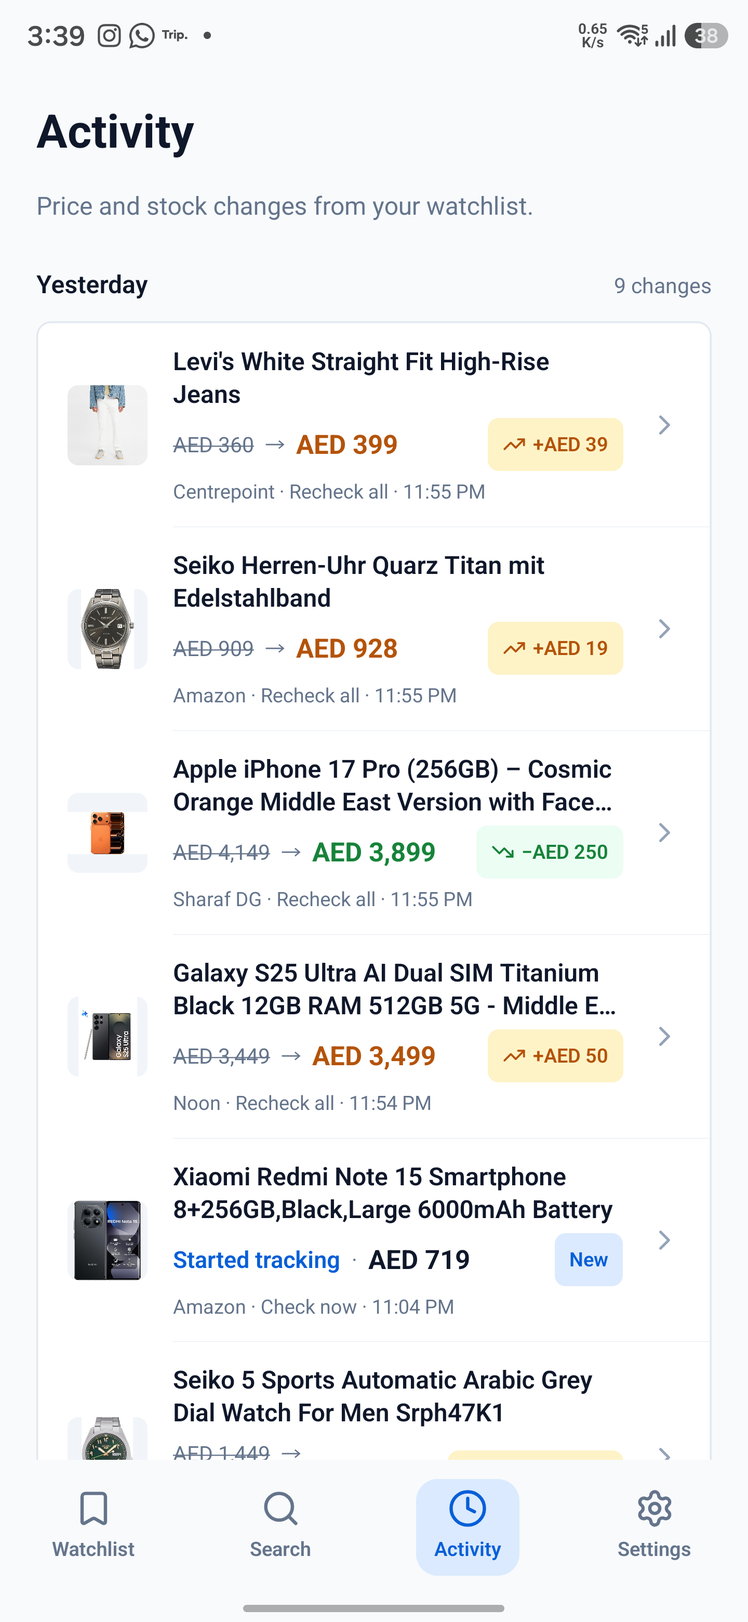
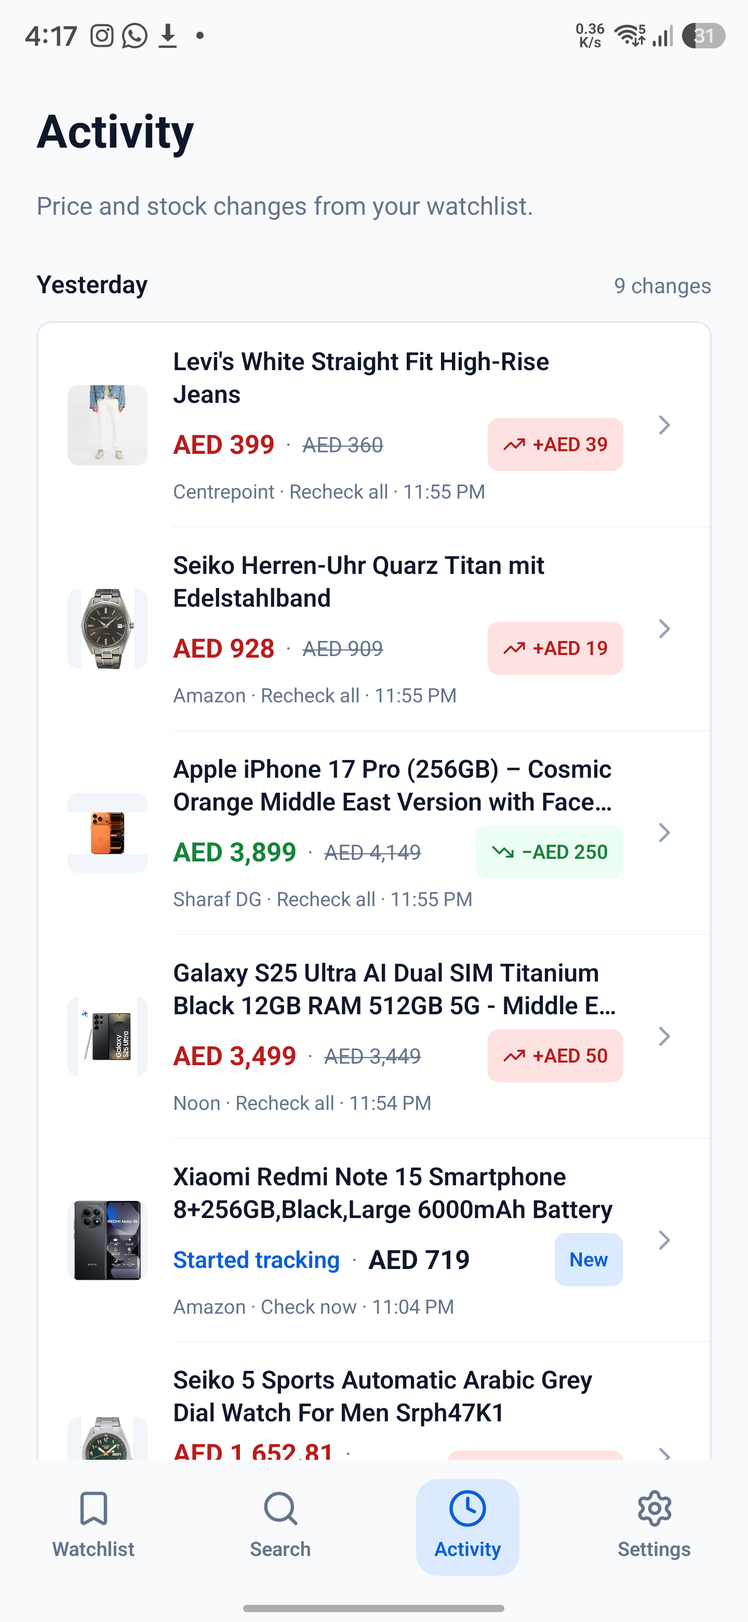
docs: update the price-rise palette and Activity evidence

diff --git a/design-qa.md b/design-qa.md
@@ -6,10 +6,10 @@ The semantic type/layout tokens and shared status primitives were installed on t
 
 - Watchlist price rises now render amber instead of red; drops stay green, so green is reserved for price movement. [Watchlist evidence](docs/assets/design-2026-11-13/watchlist-status-colors.png)
 - Product detail shows a neutral blue "Checked" status pill, and the snapshot list renders provenance ("Background", "Recheck all") as muted text instead of colored badges. [Detail evidence](docs/assets/design-2026-11-13/detail-neutral-check.png), [snapshot list](docs/assets/design-2026-11-13/detail-snapshot-provenance.png)
-- Activity renders "Back in stock" in neutral blue, price rises in amber and drops in green, with muted provenance. [Activity evidence](docs/assets/design-2026-11-13/activity-status-colors.png)
+- Activity renders "Back in stock" in neutral blue, price rises in red and drops in green, with muted provenance. [Activity evidence](docs/assets/design-2026-11-13/activity-status-colors.png)
 - Search discovery cards use a compact outline Track action instead of a solid primary button on every card, so card content leads. [Search evidence](docs/assets/design-2026-11-13/search-after-pass.png)
 - Device accessibility labels were present for the header and icon controls ("Go back", "Copy product link", "Tracking settings").
-- **Screen-pass follow-up (installed after the token pass):** product detail shows the full title, an image plus price/status block, flat equal-weight insight cards and direction-colored snapshot prices [detail](docs/assets/design-2026-11-13/detail-hierarchy.png), [snapshots](docs/assets/design-2026-11-13/detail-snapshot-directions.png); Add collapses the supported-store list behind a disclosure [Add](docs/assets/design-2026-11-13/add-supported-stores-disclosure.png); Settings collapses run diagnostics and supported stores [Settings](docs/assets/design-2026-11-13/settings-progressive-disclosure.png); tracking settings adds a per-product **Active** switch [toggle](docs/assets/design-2026-11-13/tracking-active-toggle.png); the tab stack stays mounted so Watchlist keeps its scroll position after a product round trip [state](docs/assets/design-2026-11-13/watchlist-state-preserved.png); the archived-with-no-items state is covered [archived](docs/assets/design-2026-11-13/archived-empty-state.png). Discovery listing images fall back to a neutral placeholder when missing or broken, with three focused component tests. Search listing cards now show the same green/amber direction badge as Watchlist when a previously observed price changed [badges](docs/assets/design-2026-11-13/search-price-change-badges.png).
+- **Screen-pass follow-up (installed after the token pass):** product detail shows the full title, an image plus price/status block, flat equal-weight insight cards and direction-colored snapshot prices [detail](docs/assets/design-2026-11-13/detail-hierarchy.png), [snapshots](docs/assets/design-2026-11-13/detail-snapshot-directions.png); Add collapses the supported-store list behind a disclosure [Add](docs/assets/design-2026-11-13/add-supported-stores-disclosure.png); Settings collapses run diagnostics and supported stores [Settings](docs/assets/design-2026-11-13/settings-progressive-disclosure.png); tracking settings adds a per-product **Active** switch [toggle](docs/assets/design-2026-11-13/tracking-active-toggle.png); the tab stack stays mounted so Watchlist keeps its scroll position after a product round trip [state](docs/assets/design-2026-11-13/watchlist-state-preserved.png); the archived-with-no-items state is covered [archived](docs/assets/design-2026-11-13/archived-empty-state.png). Discovery listing images fall back to a neutral placeholder when missing or broken, with three focused component tests. Search listing cards now show the same green/red direction badge as Watchlist when a previously observed price changed [badges](docs/assets/design-2026-11-13/search-price-change-badges.png).
 
 Remaining for later passes: the price-history chart keeps its own change indicator; a fuller Search hierarchy is still open, while the product-detail, Add, Settings and Activity passes are recorded below. The accessibility matrix still needs TalkBack order/heading announcement, landscape, larger scales with inputs, other devices and a loading/error/selection sweep; contrast, narrow widths and Android 16/17 edge-to-edge were checked.
 
@@ -42,11 +42,13 @@ Remaining after this pass: Search filter chips and the still-local card styles (
 The Activity tab was rebuilt as a calendar-day history rather than a list of relative-time groups:
 
 - Events are grouped by stable **local calendar day** (`Today`, `Yesterday`, then e.g. `Mon, 10 Nov`) with a per-day change count; the grouping helper is unit-tested against fixed dates. [grouping tests](src/domain/__tests__/activity.test.ts)
-- Each day is one flat `Surface` with compact rows (thumbnail, title, old → new price, explicit delta badge such as `+AED 39` or `−AED 250`, then retailer · source · time). This replaces one bordered card per event and matches the Watchlist card language. [before](docs/assets/activity-redesign/current-activity.png), [after](docs/assets/activity-redesign/activity-after.png)
+- Each day is one flat `Surface` with compact rows (thumbnail, title, new price first with the previous price struck through, explicit delta badge such as `+AED 39` or `−AED 250`, then retailer · source · time). This replaces one bordered card per event and matches the Watchlist card language. [before](docs/assets/activity-redesign/current-activity.png), [after](docs/assets/activity-redesign/activity-after.png)
 - Stock transitions keep their state text (Out of stock / Back in stock) with the last or new price; first observations read “Started tracking” with a `New` badge. Source is still muted provenance text.
 - Deleted products render a non-tappable “Product removed” row; existing products open their detail page with a descriptive accessibility label. Day headers are headings with counts.
 - Device checks on the Samsung SM-S928B: populated list, 1.3 font scale (rows reflow, meta wraps instead of truncating) and landscape (rows use the full width, badges stay right-aligned). [1.3](docs/assets/activity-redesign/activity-font-scale-1-3.png), [landscape](docs/assets/activity-redesign/activity-landscape.png)
 - Full plan and design rationale: [activity redesign](docs/activity-redesign-plan.md).
+
+**Palette follow-up (14 November 2026):** price rises switched from amber to red following the Activity review (the amber badge read as orange). `colors.red`/`redSoft` now use `#B91C1C`/`#FEE2E2` — the same red is used for negative price movement and failures, while amber remains reserved for out-of-stock warnings. This supersedes the 13 November amber-rise notes above. Red on red-soft measures 5.30:1 (WCAG AA), and the change applies to `PriceDirectionBadge`, Activity, Watchlist/Search cards, product-detail snapshots and the chart legend. [Watchlist rise badge](docs/assets/activity-redesign/price-rise-red-watchlist.png)
 
 ## Accessibility and device matrix: 13 November
 
@@ -56,7 +58,7 @@ Checked on the Samsung SM-S928B, Android 17 / SDK 37, 1440 × 3120 at override d
 - **Font scale:** 1.3 and 1.5 produce identical layouts, confirming the 1.3 cap; at 1.3 the Watchlist toolbar wraps "Recheck all" to its own row without clipping. [1.3](docs/assets/design-2026-11-13/font-scale-1-3-watchlist.png), [1.5](docs/assets/design-2026-11-13/font-scale-1-5-cap.png). Changing the system scale restarted the activity on this device; the app reopened at Watchlist with the larger layout instead of remeasuring the current screen in place — a platform behaviour to re-check on other devices.
 - **Narrow width:** at 343dp effective width the Watchlist uses the compact single-column card layout, the toolbar wraps, the out-of-stock section expands, and product detail stacks cleanly. [Watchlist](docs/assets/design-2026-11-13/narrow-343dp-watchlist.png), [detail](docs/assets/design-2026-11-13/narrow-343dp-detail.png).
 - **Keyboard:** with the Add URL field focused, the intro, field and Find product stay visible above the keyboard. [screenshot](docs/assets/design-2026-11-13/add-keyboard-open.png)
-- **Contrast (WCAG AA):** body 17.1:1; muted text 4.55:1 on page and 4.76:1 on white; primary on white 5.77:1 and on blue-soft 4.73:1; green on green-soft 4.59:1 after lightening the tint; amber on amber-soft 4.51:1; red on red-soft 4.52:1; placeholders now use muted text; the banner count pill uses primary-dark (8.5:1). Green-soft also backs the drop badge, so the direction text stays AA.
+- **Contrast (WCAG AA):** body 17.1:1; muted text 4.55:1 on page and 4.76:1 on white; primary on white 5.77:1 and on blue-soft 4.73:1; green on green-soft 4.59:1 after lightening the tint; amber on amber-soft 4.51:1 (out-of-stock warnings); red on red-soft 5.30:1 (price rises and errors); placeholders now use muted text; the banner count pill uses primary-dark (8.5:1). Green-soft also backs the drop badge, so the direction text stays AA.
 - **Accessibility tree:** UI Automator showed labels for "Go back", "Find product" and the supported-store disclosure. Android heading flags are not exposed in the dump, so TalkBack heading navigation still needs a manual pass.
 - **Empty and error checks:** the filtered-to-nothing state now has its own explanation and recovery action [screenshot](docs/assets/design-2026-11-13/filtered-empty-state.png); the price-history chart's legend now matches the shared direction colors [screenshot](docs/assets/design-2026-11-13/chart-direction-legend.png).
 

diff --git a/DESIGN.md b/DESIGN.md
@@ -14,8 +14,8 @@ colors:
   text-soft: "#94A3B8"
   green: "#16833A"
   green-soft: "#ECFDF3"
-  red: "#C2410C"
-  red-soft: "#FFEDD5"
+  red: "#B91C1C"
+  red-soft: "#FEE2E2"
   amber: "#B45309"
   amber-soft: "#FEF3C7"
   blue-soft: "#DBEAFE"
@@ -59,7 +59,7 @@ This document records the agreed system and its implementation. Semantic type an
 
 ## Colors
 
-Use the existing blue for primary actions, selection and links. Light neutrals separate the page, surfaces and borders. Green, orange-red and amber communicate price or check states; pair colors with descriptive text or icons. The palette ships as `colors` and defines a light appearance only; a dark theme has not been specified or validated.
+Use the existing blue for primary actions, selection and links. Light neutrals separate the page, surfaces and borders. Green, red and amber communicate price or check states: red marks negative price movement and failures, amber warns about availability, and green marks a price drop. Pair colors with descriptive text or icons. The palette ships as `colors` and defines a light appearance only; a dark theme has not been specified or validated.
 
 Foreground/background pairs are checked for WCAG AA contrast: body and muted text on page/surface, primary on white and blue-soft, green/amber/red text on their soft tints, and placeholders use `textMuted` rather than `textSoft`. The Watchlist count pill uses `primaryDark` behind white text (8.5:1) instead of a translucent overlay.
 
@@ -121,25 +121,25 @@ Treat check freshness, price direction, availability and failure as separate sig
 
 - **Freshness:** neutral blue for a successful check; a check is not itself a price drop.
 - **Price drop:** green.
-- **Price rise:** amber.
+- **Price rise:** red (the same red as errors; the label and trend icon distinguish them).
 - **Out of stock:** amber.
 - **Error:** red.
 - **Provenance:** muted text, never green.
 
-- **Shipped:** the status primitives use the agreed colors: `StatusPill` renders `ok` and `price_changed` as a neutral blue check, out-of-stock as amber and failures as red; `PriceDirectionBadge` renders a drop green and a rise amber; `SourceLabel` (backed by `snapshotSourceLabel` in `src/domain/snapshotSource.ts`) renders provenance as muted text with no colored badge; `ProductCard`, the product-detail snapshot list, Activity and the price-history chart use the same direction colors (green drop, amber rise). Snapshot prices on product detail are tinted by direction rather than every `price_changed` row being green.
+- **Shipped:** the status primitives use the agreed colors: `StatusPill` renders `ok` and `price_changed` as a neutral blue check, out-of-stock as amber and failures as red; `PriceDirectionBadge` renders a drop green and a rise red; `SourceLabel` (backed by `snapshotSourceLabel` in `src/domain/snapshotSource.ts`) renders provenance as muted text with no colored badge; `ProductCard`, the product-detail snapshot list, Activity and the price-history chart use the same direction colors (green drop, red rise). Snapshot prices on product detail are tinted by direction rather than every `price_changed` row being green.
 - **Intended:** one shared status treatment applied consistently across every surface. `StatusPill` remains product-detail only, and the price-history chart keeps its own change indicator styling. Do not treat full unification as shipped.
 
 ## Components
 
-`PrimaryButton`, `ProductCard`, `StatusPill`, `SiteIcon` and `AppText` are the shared components today, alongside the status primitives `PriceDirectionBadge` and `SourceLabel`. Semantic tokens ship, but there is no shared input or surface primitive and screens do not yet apply the full action/input/state role set; that consolidation is intended, not shipped.
+`PrimaryButton`, `ProductCard`, `StatusPill`, `SiteIcon` and `AppText` are the shared components today, alongside the status primitives `PriceDirectionBadge` and `SourceLabel`, the shared field primitive `AppTextInput` and the flat-surface primitive `Surface`. Semantic tokens ship; the remaining consolidation is the action/state role set and the compact chip/surface adoptions marked intended below.
 
 - **Buttons:** `PrimaryButton` supplies primary, outline and danger variants, a 58-unit minimum height, disabled opacity and a loading state. Use the primary action where it helps the user complete the screen's main task. Screens still style some controls locally, so button roles are not fully consolidated.
 - **Tracked-product cards:** `ProductCard` presents the product, retailer, selected variant, current or last-known price, price change and check state where available. **Shipped:** compact, flat divided rows without the shared shadow; the change badge reflects the most recent actual price change and keeps showing through later unchanged checks (its accessibility label includes when the change happened). Improve density without hiding variant or failure context.
 - **Floating add button:** **Shipped:** Watchlist uses a circular add button floating over the list (`12aaa66`). The user explicitly chose it over a separate white dock; it can cover list content, and that overlap is an accepted tradeoff, not a defect to fix by restoring a dock. Keep enough bottom scroll padding for the final product to be scrolled clear.
 - **Navigation:** the app has a manual Android tab and route stack. Preserve established navigation and Android back behavior.
-- **Search cards:** listing cards serve discovery, while Watchlist cards serve monitoring. Share underlying visual principles without forcing identical layouts. **Shipped (13 November 2026):** discovery cards use a compact outline Track action instead of a solid primary button on every card, so the card content leads, and missing or failed listing images fall back to a neutral placeholder. A previously observed price change renders as the same green/amber direction badge used by Watchlist cards. A fuller Search hierarchy pass remains **intended**.
+- **Search cards:** listing cards serve discovery, while Watchlist cards serve monitoring. Share underlying visual principles without forcing identical layouts. **Shipped (13 November 2026):** discovery cards use a compact outline Track action instead of a solid primary button on every card, so the card content leads, and missing or failed listing images fall back to a neutral placeholder. A previously observed price change renders as the same green/red direction badge used by Watchlist cards. A fuller Search hierarchy pass remains **intended**.
 - **Task-first flows:** **Shipped (13 November 2026):** Add keeps **Find product** directly after the URL field and collapses the supported-store list behind a disclosure; Settings keeps notifications, battery and background time first and collapses run diagnostics and the supported-store list; tracking settings exposes a per-product **Active** switch, and the tab stack stays mounted so Watchlist and Search keep their state after opening a product or the Add flow.
-- **Product detail:** **Shipped (13 November 2026):** the product title spans the full width without a line clamp, the image and price/status block sit below it, insight cards are flat and equal-weight (no emphasized average price), and snapshots color a lower price green and a higher price amber. Further insight/chart hierarchy refinement is **intended**.
+- **Product detail:** **Shipped (13 November 2026):** the product title spans the full width without a line clamp, the image and price/status block sit below it, insight cards are flat and equal-weight (no emphasized average price), and snapshots color a lower price green and a higher price red. Further insight/chart hierarchy refinement is **intended**.
 
 ## Accessibility
 

diff --git a/docs/current-state.md b/docs/current-state.md
@@ -46,7 +46,7 @@ The site registry is `src/domain/sites.ts`. It controls hostnames, enabled statu
 - The watchlist supports pull-to-refresh, a bordered `Recheck all` action at the right end of the toolbar, price-direction arrows, an archived-items view, and a collapsible out-of-stock section below in-stock products. The banner search control opens an inline search for tracked products by name, retailer, folder or selected option that combines with the other controls. When products from multiple stores are tracked, a store rail filters both sections and supports selecting several stores at once; a separate control filters local folders and sorts by recency, lowest price, largest drop, closest target, or name. The archived view is toggled from a toolbar icon. Cards keep showing the most recent actual price change (with its direction and amount) after later unchanged checks. The tab keeps its scroll and search state but reloads stored products when a flow (Add, product detail, tracking settings) returns to the tabs. An empty archived view, an empty search and a list filtered to nothing show their own explanation with a recovery action.
 - Long-press selection opens a compact floating action dock. Selected products can be moved to a folder, paused/resumed, archived/restored, or deleted in bulk.
 - Product cards show a site icon, local folder when present, price, status, and the most recent price-change direction. OOS cards are dimmed and show an amber out-of-stock badge.
-- The Activity tab is newest-first and groups events into stable local calendar-day sections (`Today`, `Yesterday`, then e.g. `Mon, 10 Nov`) with a per-day change count. Each day is one flat card of compact rows: product thumbnail and title, old → new price with an explicit delta badge (for example `+AED 39` or `−AED 250`), then retailer · source · time as muted metadata. Out-of-stock and back-in-stock transitions keep their state text, first observations read “Started tracking” with a `New` badge, existing products open their detail screen, and deleted products render a non-tappable “Product removed” row. Day headers are accessibility headings and each row has a descriptive accessibility label.
+- The Activity tab is newest-first and groups events into stable local calendar-day sections (`Today`, `Yesterday`, then e.g. `Mon, 10 Nov`) with a per-day change count. Each day is one flat card of compact rows: product thumbnail and title, new price first with the previous price struck through, an explicit delta badge (for example `+AED 39` or `−AED 250`), then retailer · source · time as muted metadata. Price rises render red and drops green across the app. Out-of-stock and back-in-stock transitions keep their state text, first observations read “Started tracking” with a `New` badge, existing products open their detail screen, and deleted products render a non-tappable “Product removed” row. Day headers are accessibility headings and each row has a descriptive accessibility label.
 - `Watchlist` is the opening tab; `Search` provides discovery. The default Explore feed uses categories on active, non-archived watchlist products. When no category is assigned, it uses recognizable product-page metadata and then conservative suggestions inferred from names and URLs. Users can change or remove a suggestion. It explains those categories and supports browsing all products or filtering by department, store, brand and price. With no recognizable categories, it shows general listings. Saved quiz preferences no longer filter the feed.
 - Search keeps its screen state while switching between tabs and also after opening a product or the Add flow, because the tab stack stays mounted. Its default feed rotates the first group of products at each app launch, while search results and explicitly filtered views keep their existing order. Listing cards show a previous price comparison only when the price changes, and missing or failed listing images fall back to a neutral placeholder.
 - Tracked products retain available retailer-provided category paths, product types and selected attributes separately from shopper-selected categories. Product details show the captured information; existing products acquire it on their next successful check. Fields vary by page and retailer, and an omitted field does not erase previously captured metadata. See the [product metadata source review](product-metadata-audit.md) for retailer-specific evidence and gaps.
@@ -62,7 +62,7 @@ The site registry is `src/domain/sites.ts`. It controls hostnames, enabled statu
 
 - The add flow detects supported stores, replaces the store list with a single detected-store status for valid links, and brings the parsed result into view before saving. The full supported-store list is collapsed behind a disclosure below `Find product`. As soon as a product is parsed, the flow checks the watchlist: an exact duplicate shows an inline **Duplicate product** warning with an **Open product** action and disables **Confirm Tracking**; a different option of an already-tracked product shows an **Adding another option** notice and is saved as a separate tracker. A save-time duplicate check remains as a fallback. It then collects check preference, alert mode, optional target price, optional minimum price-drop threshold, back-in-stock preference, and a local folder. When a page exposes reliable variant data, the user must select an in-stock source option such as size before saving; that exact option is shown on cards and details and is used for later checks. Centrepoint size choices use the current product URL and source button ID, while color-only pages retain the current color and product route without guessing neighboring colors. Namshi size choices use the current product/color URL. The Deal builds source-provided color/size candidates, then verifies the selected combination against its exact variation endpoint before saving; a response that does not return the requested attributes is rejected. Sharaf DG linked configurations retain the source URL that preselects the exact item. Sephora and Faces shade labels remain page-level because their initial pages do not provide complete per-shade stock state. Android browsers can share a product URL directly to Qeemat, which opens this flow and automatically finds the product so the user can choose its variant and tracking settings.
 - AYM excludes the daily option in the picker because its effective minimum interval is 72 hours. Existing daily AYM products are clamped in tracking settings.
-- Product detail shows the full product title above an image and price/status block, an interactive price chart with tappable snapshots and color-coded price changes (green for a drop, amber for an increase), flat equal-weight local low/high/average/history-distance insight cards, snapshot history with direction-colored prices and muted provenance, `Check now`, `Open link`, and `Copy product link` actions. Tracking settings include a per-product **Active** switch that pauses checks without removing the product.
+- Product detail shows the full product title above an image and price/status block, an interactive price chart with tappable snapshots and color-coded price changes (green for a drop, red for an increase), flat equal-weight local low/high/average/history-distance insight cards, snapshot history with direction-colored prices and muted provenance, `Check now`, `Open link`, and `Copy product link` actions. Tracking settings include a per-product **Active** switch that pauses checks without removing the product.
 - Snapshot sources are presented as `Check now`, `Recheck all`, or `Background`.
 
 ### Settings, onboarding, and navigation

diff --git a/docs/design-system-review.md b/docs/design-system-review.md
@@ -22,7 +22,7 @@ Reviewed 13 November 2026 against the current React Native code and Watchlist, S
 
 | # | Status | Evidence and remaining work |
 | --- | --- | --- |
-| 1 | Mostly shipped | `StatusPill` renders a neutral blue check (`16019c1`), `PriceDirectionBadge` renders green drops and amber rises, and `SourceLabel` renders provenance as muted text instead of a coloured badge (`6794cec`); snapshot prices are tinted by direction. Full unification is still intended: `StatusPill` remains product-detail only and the price-history chart keeps its own change indicator. |
+| 1 | Mostly shipped | `StatusPill` renders a neutral blue check (`16019c1`), `PriceDirectionBadge` renders green drops and red rises, and `SourceLabel` renders provenance as muted text instead of a coloured badge (`6794cec`); snapshot prices are tinted by direction. Full unification is still intended: `StatusPill` remains product-detail only and the price-history chart keeps its own change indicator. |
 | 2 | Partial | Settings, Watchlist rows, product-detail insight cards and the update surfaces use flat bordered surfaces. Form fields share the 52-high `AppTextInput` role with focus/error states, and `Surface` now provides the shared card/muted/accent surface role used by Search discovery cards, empty states and detail insight cards. Search filter chips and some remaining local card styles still carry their own treatment (`DESIGN.md` marks chip consolidation **intended**). |
 | 3 | Mostly shipped | Add puts **Find product** after the URL field and collapses supported stores; Settings is task-first; Search discovery cards use a compact outline Track action plus direction badges; product detail has the full title, image/price/status block and equal-weight flat insight cards. A fuller Search hierarchy and further detail insight/chart refinement remain **intended**. |
 | 4 | Tokens shipped, adoption partial | Semantic `typography` and `layoutMetrics` roles ship in `src/theme/theme.ts`, and `AppText` renders on the body role. Screens still set many local font sizes and spacing values, so app-wide adoption is incomplete. |

diff --git a/docs/activity-redesign-plan.md b/docs/activity-redesign-plan.md
@@ -1,6 +1,6 @@
 # Activity redesign — proposal and implementation
 
-**Status:** implemented on 14 November 2026 (Direction A). The plan below is the approved design record; final refinements during implementation: flat rows inside one `Surface` per day, compact delta badges (`+AED 39` / `−AED 250`), stock rows use their state text without duplicate badges, the meta line wraps instead of truncating at large font scales, and `ActivityList` renders deleted products as a non-tappable row with a “Product removed” note. Device-verified on the Samsung SM-S928B (populated, 1.3 font scale and landscape).
+**Status:** implemented on 14 November 2026 (Direction A). The plan below is the approved design record; final refinements during implementation: flat rows inside one `Surface` per day, new price first with the previous price struck through, compact delta badges (`+AED 39` / `−AED 250`), price rises render red (palette updated app-wide), stock rows use their state text without duplicate badges, the meta line wraps instead of truncating at large font scales, and `ActivityList` renders deleted products as a non-tappable row with a “Product removed” note. Device-verified on the Samsung SM-S928B (populated, 1.3 font scale and landscape).
 
 ![Before](assets/activity-redesign/current-activity.png)
 ![After](assets/activity-redesign/activity-after.png)
@@ -60,7 +60,7 @@ The handover says Activity is a **history of price/availability events**, not a 
 
 ### Tokens/components
 
-- `Surface` (`card` per day, `accent` for update pin), `AppText` roles, `colors.green/amber/blueSoft`, `radius`, `spacing`, hairline dividers.
+- `Surface` (`card` per day, `accent` for update pin), `AppText` roles, `colors.green/red/blueSoft` (amber stays for out-of-stock warnings), `radius`, `spacing`, hairline dividers.
 - Reuse the direction colors/badge treatment from `PriceDirectionBadge`; extract a shared delta-badge helper if the styling repeats in Watchlist and Activity.
 
 ### Accessibility
